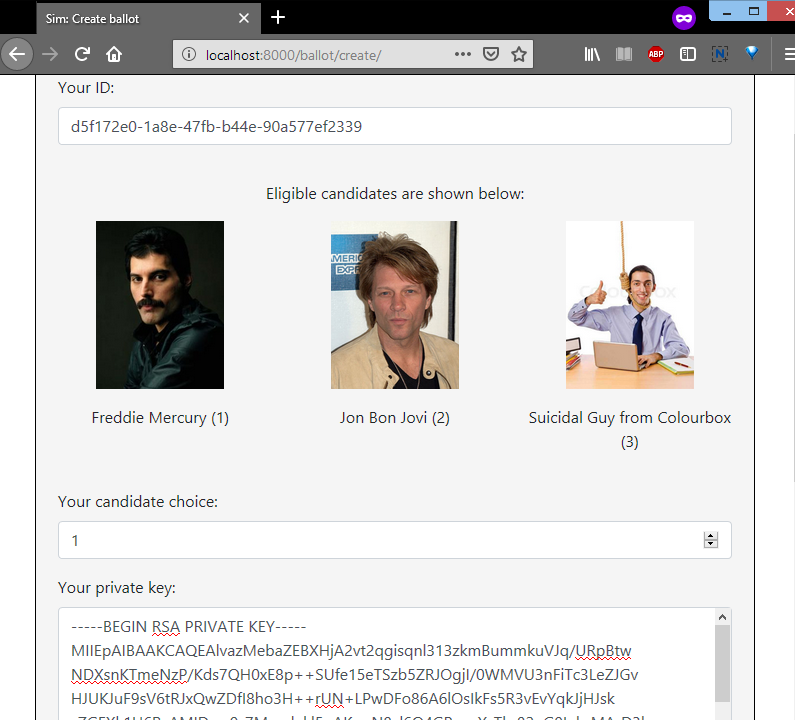
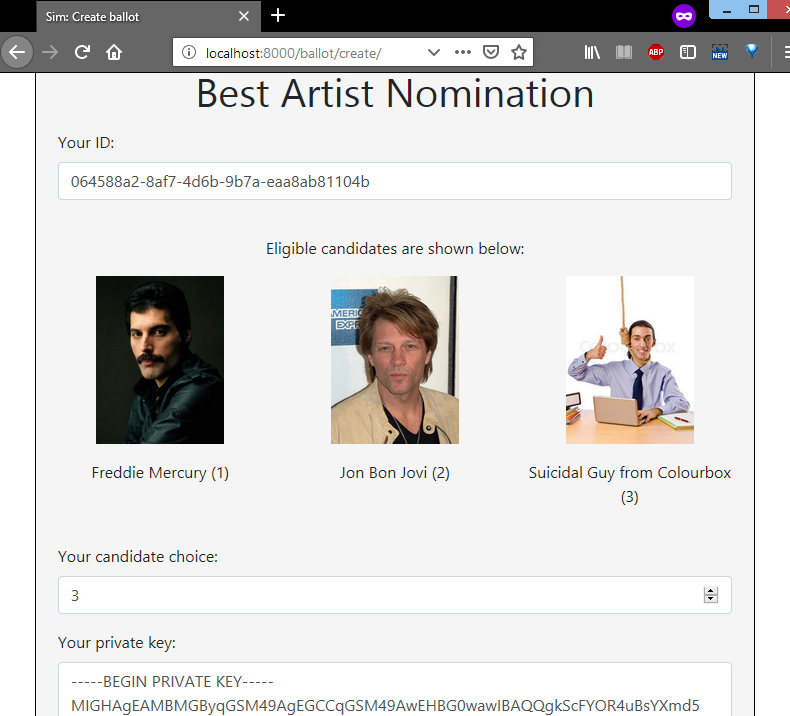
MAJOR REVISION: ecdsa, pagination, etc

diff --git a/simulation/templates/simulation/transactions.html b/simulation/templates/simulation/transactions.html
@@ -7,11 +7,26 @@
     <h1>List of confirmed votes</h1>
     <a class="btn btn-light btn-sm" href="{% url 'simulation:blockchain' %}" role="button">See all blocks</a>
     <a class="btn btn-light btn-sm" href="{% url 'welcome:home' %}" role="button">Back to homepage</a>
-    <div style="padding:1%; border:1px solid black;">
+    <div style="margin:1%; padding:1%; border:1px solid black;">
         {% for r in result %}
             Candidate #{{ forloop.counter }}: {{ r }} votes<br>
         {% endfor %}
     </div>
+
+    <small>Showing page {{ votes_pg.number }} of {{ votes_pg.paginator.num_pages }}</small>
+    <div class="pagination pb-2">
+        <span class="step-links">
+            {% if votes_pg.has_previous %}
+                <a class="btn btn-light btn-sm" href="?page=1" role="button">&laquo; First</a>
+                <a class="btn btn-light btn-sm" href="?page={{ votes_pg.previous_page_number }}" role="button">Previous</a>
+            {% endif %}
+            {% if votes_pg.has_next %}
+                <a class="btn btn-light btn-sm" href="?page={{ votes_pg.next_page_number }}" role="button">Next</a>
+                <a class="btn btn-light btn-sm" href="?page={{ votes_pg.paginator.num_pages }}" role="button">Last &raquo;</a>
+            {% endif %}
+        </span>
+    </div>
+
     <table class="table table-hover">
         <thead>
             <tr>

diff --git a/simulation/templates/simulation/block.html b/simulation/templates/simulation/block.html
@@ -49,6 +49,21 @@
                 <p>Transactions are not tampered</p>
             </div>
         {% endif %}
+
+        <small>Showing page {{ transactions_pg.number }} of {{ transactions_pg.paginator.num_pages }}</small>
+        <div class="pagination pb-2">
+            <span class="step-links">
+                {% if transactions_pg.has_previous %}
+                    <a class="btn btn-light btn-sm" href="?page=1" role="button">&laquo; First</a>
+                    <a class="btn btn-light btn-sm" href="?page={{ transactions_pg.previous_page_number }}" role="button">Previous</a>
+                {% endif %}
+                {% if transactions_pg.has_next %}
+                    <a class="btn btn-light btn-sm" href="?page={{ transactions_pg.next_page_number }}" role="button">Next</a>
+                    <a class="btn btn-light btn-sm" href="?page={{ transactions_pg.paginator.num_pages }}" role="button">Last &raquo;</a>
+                {% endif %}
+            </span>
+        </div>
+
         <table class="table table-hover">
             <thead>
                 <tr>

diff --git a/simulation/templates/simulation/generate.html b/simulation/templates/simulation/generate.html
@@ -4,7 +4,8 @@
 {% block body_bl %}
 <div class="container">
     <h1>List of unconfirmed votes</h1>
-    <p>Batch creation of votes with pseudo random valid values</p>
+    <p>Showing last 100 transactions (or all if &lt;=100)</p>
+    
     <table class="table table-hover">
         <thead>
             <tr>
@@ -23,6 +24,7 @@
             {% endfor %}
         </tbody>
     </table>
-    <a class="btn btn-primary btn-block" href="{% url 'simulation:seal' %}" role="button">Seal into blocks</a>
+    
+    <a class="btn btn-primary btn-block" href="{% url 'simulation:seal' %}" role="button">Mine into blocks</a>
 </div>
 {% endblock %}

diff --git a/simulation/views.py b/simulation/views.py
@@ -1,7 +1,8 @@
-import datetime, json, math
+import datetime, time, json, math
 from random import randint
 from uuid import uuid4
 from Crypto.Hash import SHA3_256
+from django.core.paginator import EmptyPage, PageNotAnInteger, Paginator
 from django.conf import settings
 from django.contrib import messages
 from django.http import HttpResponse
@@ -14,11 +15,17 @@ def generate(request):
     """Generate transactions and fill them with valid values."""
     number_of_transactions = settings.N_TRANSACTIONS
     number_of_tx_per_block = settings.N_TX_PER_BLOCK
+
     # Delete all data from previous demo.
     deleted_old_votes = Vote.objects.all().delete()[0]
     VoteBackup.objects.all().delete()
     print('\nDeleted {} data from previous simulation.\n'.format(deleted_old_votes))
+    # Delete all blocks from previous demo.
+    deleted_old_blocks = Block.objects.all().delete()[0]
+    print("\nDeleted {} blocks from previous simulation.\n".format(deleted_old_blocks))
+    
     # Generate transactions.
+    time_start = time.time()
     block_no = 1
     for i in range(1, number_of_transactions + 1):
         # generate random, valid values
@@ -34,9 +41,11 @@ def generate(request):
         print("#{} new vote: {}".format(i, new_vote)) # for sanity
         if i % number_of_tx_per_block == 0:
             block_no += 1
+    time_end = time.time()
+    print('\nFinished in {} seconds.\n'.format(time_end - time_start))
 
     # View the generated transactions
-    votes = Vote.objects.order_by('timestamp')
+    votes = Vote.objects.order_by('-timestamp')[:100] # only shows the last 100, if any
     context = {
         'votes': votes,
     }
@@ -49,14 +58,11 @@ def seal(request):
         redirect('welcome:home')
     del request.session['transactions_done']
 
-    # Delete all blocks from previous demo.
-    deleted_old_blocks = Block.objects.all().delete()[0]
-    print("\nDeleted {} blocks from previous simulation.\n".format(deleted_old_blocks))
-
     # Puzzle requirement: '0' * (n leading zeros)
     puzzle, pcount = settings.PUZZLE, settings.PLENGTH
 
     # Seal transactions into blocks
+    time_start = time.time()
     number_of_blocks = settings.N_BLOCKS
     prev_hash = '0' * 64
     for i in range(1, number_of_blocks + 1):
@@ -79,20 +85,27 @@ def seal(request):
         # Create the block
         block = Block(id=i, prev_h=prev_hash, merkle_h=merkle_h, h=h, nonce=nonce, timestamp=timestamp)
         block.save()
+        print('\nBlock {} is mined\n'.format(i))
         # Set this hash as prev hash
         prev_hash = h
 
+    time_end = time.time()
     print('\nSuccessfully created {} blocks.\n'.format(number_of_blocks))
+    print('\nFinished in {} seconds.\n'.format(time_end - time_start))
     return redirect('simulation:blockchain')
 
 def transactions(request):
     """See all transactions that have been contained in blocks."""
-    votes = Vote.objects.all().order_by('timestamp')
+    vote_list = Vote.objects.all().order_by('timestamp')
+    paginator = Paginator(vote_list, 100, orphans=20, allow_empty_first_page=True)
+
+    page = request.GET.get('page')
+    votes = paginator.get_page(page)
+
     hashes = [SHA3_256.new(str(v).encode('utf-8')).hexdigest() for v in votes]
     
     # This happens if you don't use foreign key
     block_hashes = []
-    i = 0
     for i in range(0, len(votes)):
         try:
             b = Block.objects.get(id=votes[i].block_id)
@@ -102,6 +115,7 @@ def transactions(request):
         block_hashes.append(h)
     
     # zip the three iters
+    votes_pg = votes # for pagination
     votes = zip(votes, hashes, block_hashes)
     
     # Calculate the voting result of 3 cands, the ugly way
@@ -116,6 +130,7 @@ def transactions(request):
     context = {
         'votes': votes,
         'result': result,
+        'votes_pg': votes_pg,
     }
     return render(request, 'simulation/transactions.html', context)
 
@@ -195,16 +210,21 @@ def block_detail(request, block_hash):
     block = get_object_or_404(Block, h=block_hash)
     confirmed_by = (Block.objects.all().count() - block.id) + 1
     # Select all corresponding transactions
-    transactions = Vote.objects.filter(block_id=block.id).order_by('timestamp')
+    transaction_list = Vote.objects.filter(block_id=block.id).order_by('timestamp')
+    paginator = Paginator(transaction_list, 100, orphans=20)
+
+    page = request.GET.get('page')
+    transactions = paginator.get_page(page)
     transactions_hashes = [SHA3_256.new(str(t).encode('utf-8')).hexdigest() for t in transactions]
     
     # Check the integrity of transactions
     root = MerkleTools()
-    root.add_leaf([str(tx) for tx in transactions], True)
+    root.add_leaf([str(tx) for tx in transaction_list], True)
     root.make_tree()
     merkle_h = root.get_merkle_root()
     tampered = block.merkle_h != merkle_h
     
+    transactions_pg = transactions # for pagination
     transactions = zip(transactions, transactions_hashes)
     
     # Get prev and next block id
@@ -219,6 +239,7 @@ def block_detail(request, block_hash):
         'verified_merkle_h': merkle_h,
         'prev_block': prev_block,
         'next_block': next_block,
+        'transactions_pg': transactions_pg,
     }
 
     return render(request, 'simulation/block.html', context)

diff --git a/ballot/views.py b/ballot/views.py
@@ -1,8 +1,8 @@
 import time, datetime
 import uuid
-from Crypto.Signature import pss
+from Crypto.Signature import DSS
 from Crypto.Hash import SHA3_256
-from Crypto.PublicKey import RSA
+from Crypto.PublicKey import ECC
 from Crypto import Random
 from django.conf import settings
 from django.http import HttpResponse
@@ -21,20 +21,20 @@ def create(request):
         signature = ''
         try:
             # Create signature
-            priv_key = RSA.import_key(private_key)
+            priv_key = ECC.import_key(private_key)
             h = SHA3_256.new(ballot.encode('utf-8'))
-            signature = pss.new(priv_key).sign(h)
+            signature = DSS.new(priv_key, 'fips-186-3').sign(h)
             print('\nsignature: {}\n'.format(signature.hex()))
 
             # Verify the signature using registered public key
-            pub_key = RSA.import_key(settings.PUBLIC_KEY)
-            verifier = pss.new(pub_key)
+            pub_key = ECC.import_key(settings.PUBLIC_KEY)
+            verifier = DSS.new(pub_key, 'fips-186-3')
         
             verifier.verify(h, signature)
-            status = 'The message and signature are authentic.'
+            status = 'The ballot is signed successfully.'
             error = False
         except (ValueError, TypeError):
-            status = 'The message and signature cannot be authenticated.'
+            status = 'The key is not registered.'
             error = True
         
         context = {

diff --git a/bbevoting_project/settings.py b/bbevoting_project/settings.py
@@ -57,7 +57,7 @@ ROOT_URLCONF = 'bbevoting_project.urls'
 TEMPLATES = [
     {
         'BACKEND': 'django.template.backends.django.DjangoTemplates',
-        'DIRS': ['templates/'],
+        'DIRS': ['templates', ],
         'APP_DIRS': True,
         'OPTIONS': {
             'context_processors': [
@@ -130,13 +130,8 @@ STATICFILES_DIRS = [
 # IMPORTANT: Re-run the simulation after modifying these values.
 # Public key
 PUBLIC_KEY = """-----BEGIN PUBLIC KEY-----
[6 lines of base64/hex data omitted]
-KQIDAQAB
[1 lines of base64/hex data omitted]
+lIEPNL/gFRyz9sl55N8jENmCslOSpNCkJUEb879x+0Jx0pg9POeOAT7Xrw==
 -----END PUBLIC KEY-----"""
 
 # PUZZLE
@@ -144,6 +139,6 @@ PUZZLE = '0000' # or more zeros
 PLENGTH = len(PUZZLE)
 
 # BATCH SIMULATION
-N_TRANSACTIONS = 1000 # 16130
-N_TX_PER_BLOCK = 20 # 16130
+N_TRANSACTIONS = 10000
+N_TX_PER_BLOCK = 20
 N_BLOCKS = math.ceil(N_TRANSACTIONS/N_TX_PER_BLOCK) # Number of required blocks as int
